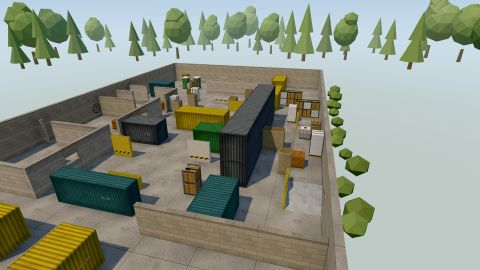
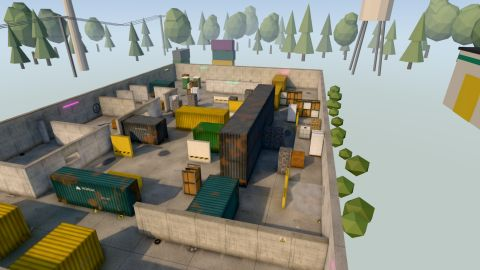
W7: the menus' pictures redrawn on WebGPU by the node renderer
map-stills.mjs draws on WebGPU by default (webgpuCompare WEBGPU_ARGS; --backend webgl
for the WebGL2 back end), checks the back end each page drew with, stops the game's loop
and draws from the stood camera until the draw count holds and the temporal pass has
settled (menuArt STILL_SETTLE), reads the WebGPU canvas back as a PNG (a straight
drawImage copies black on SwiftShader) and refuses a black frame. All eight pictures
redrawn; each under its budget.

Claude-Session: https://claude.ai/code/session_01BV4oJCJeL13zMc8eeEb9ef

diff --git a/src/config/menuArt.ts b/src/config/menuArt.ts
@@ -59,6 +59,13 @@ export const STILL_CAMERA: Readonly<Record<StillView, { back: number; up: number
   flag: { back: 9, up: 3.2, lookUp: 1.8, fov: 58 },
 };
 
+/**
+ * How a still's frame settles before it is taken (pipeline/map-stills.mjs): frames until the draw count holds for
+ * `stillFrames` in a row (the node renderer compiles what comes into view over a few frames; at most `maxFrames`, a
+ * pause of `pauseMs` after each), then `temporalFrames` for the post stack's temporal pass on the stood camera.
+ */
+export const STILL_SETTLE = { stillFrames: 3, maxFrames: 40, pauseMs: 150, temporalFrames: 8 } as const;
+
 /** The map still's file for a map in a light, or null when none was drawn. */
 export function mapStillFile(map: string, light: string): string | null {
   return MAP_STILLS.find((s) => s.map === map && s.light === light)?.file ?? MAP_STILLS.find((s) => s.map === map)?.file ?? null;

diff --git a/docs/ASSETS.md b/docs/ASSETS.md
@@ -45,8 +45,9 @@ licence travels beside them.
 - **The menus' pictures** in `public/menu/` (G3) are the game's own frames. `pipeline/map-stills.mjs` renders each map
   still (one per map and time of day), each mode's picture and the one pre-blurred backdrop (every screen but the title,
   which is plain navy drawn by the stylesheet) from the built game, and saves them as small JPEGs
-  (`src/config/menuArt.ts` lists them and their byte budgets). Run it again when a map, its lighting or the renderer's
-  look changes. No outside source; same licence as the code.
+  (`src/config/menuArt.ts` lists them and their byte budgets), drawn on WebGPU by the node renderer since W7
+  (2026-10-12). Run it again when a map, its lighting or the renderer's look changes. No outside source; same licence as
+  the code.
 - **All sounds** are synthesised in code when audio starts (recipes in `src/config/sounds.ts`, rendered by
   `src/audio/dsp.ts`). There are no audio files.
 
